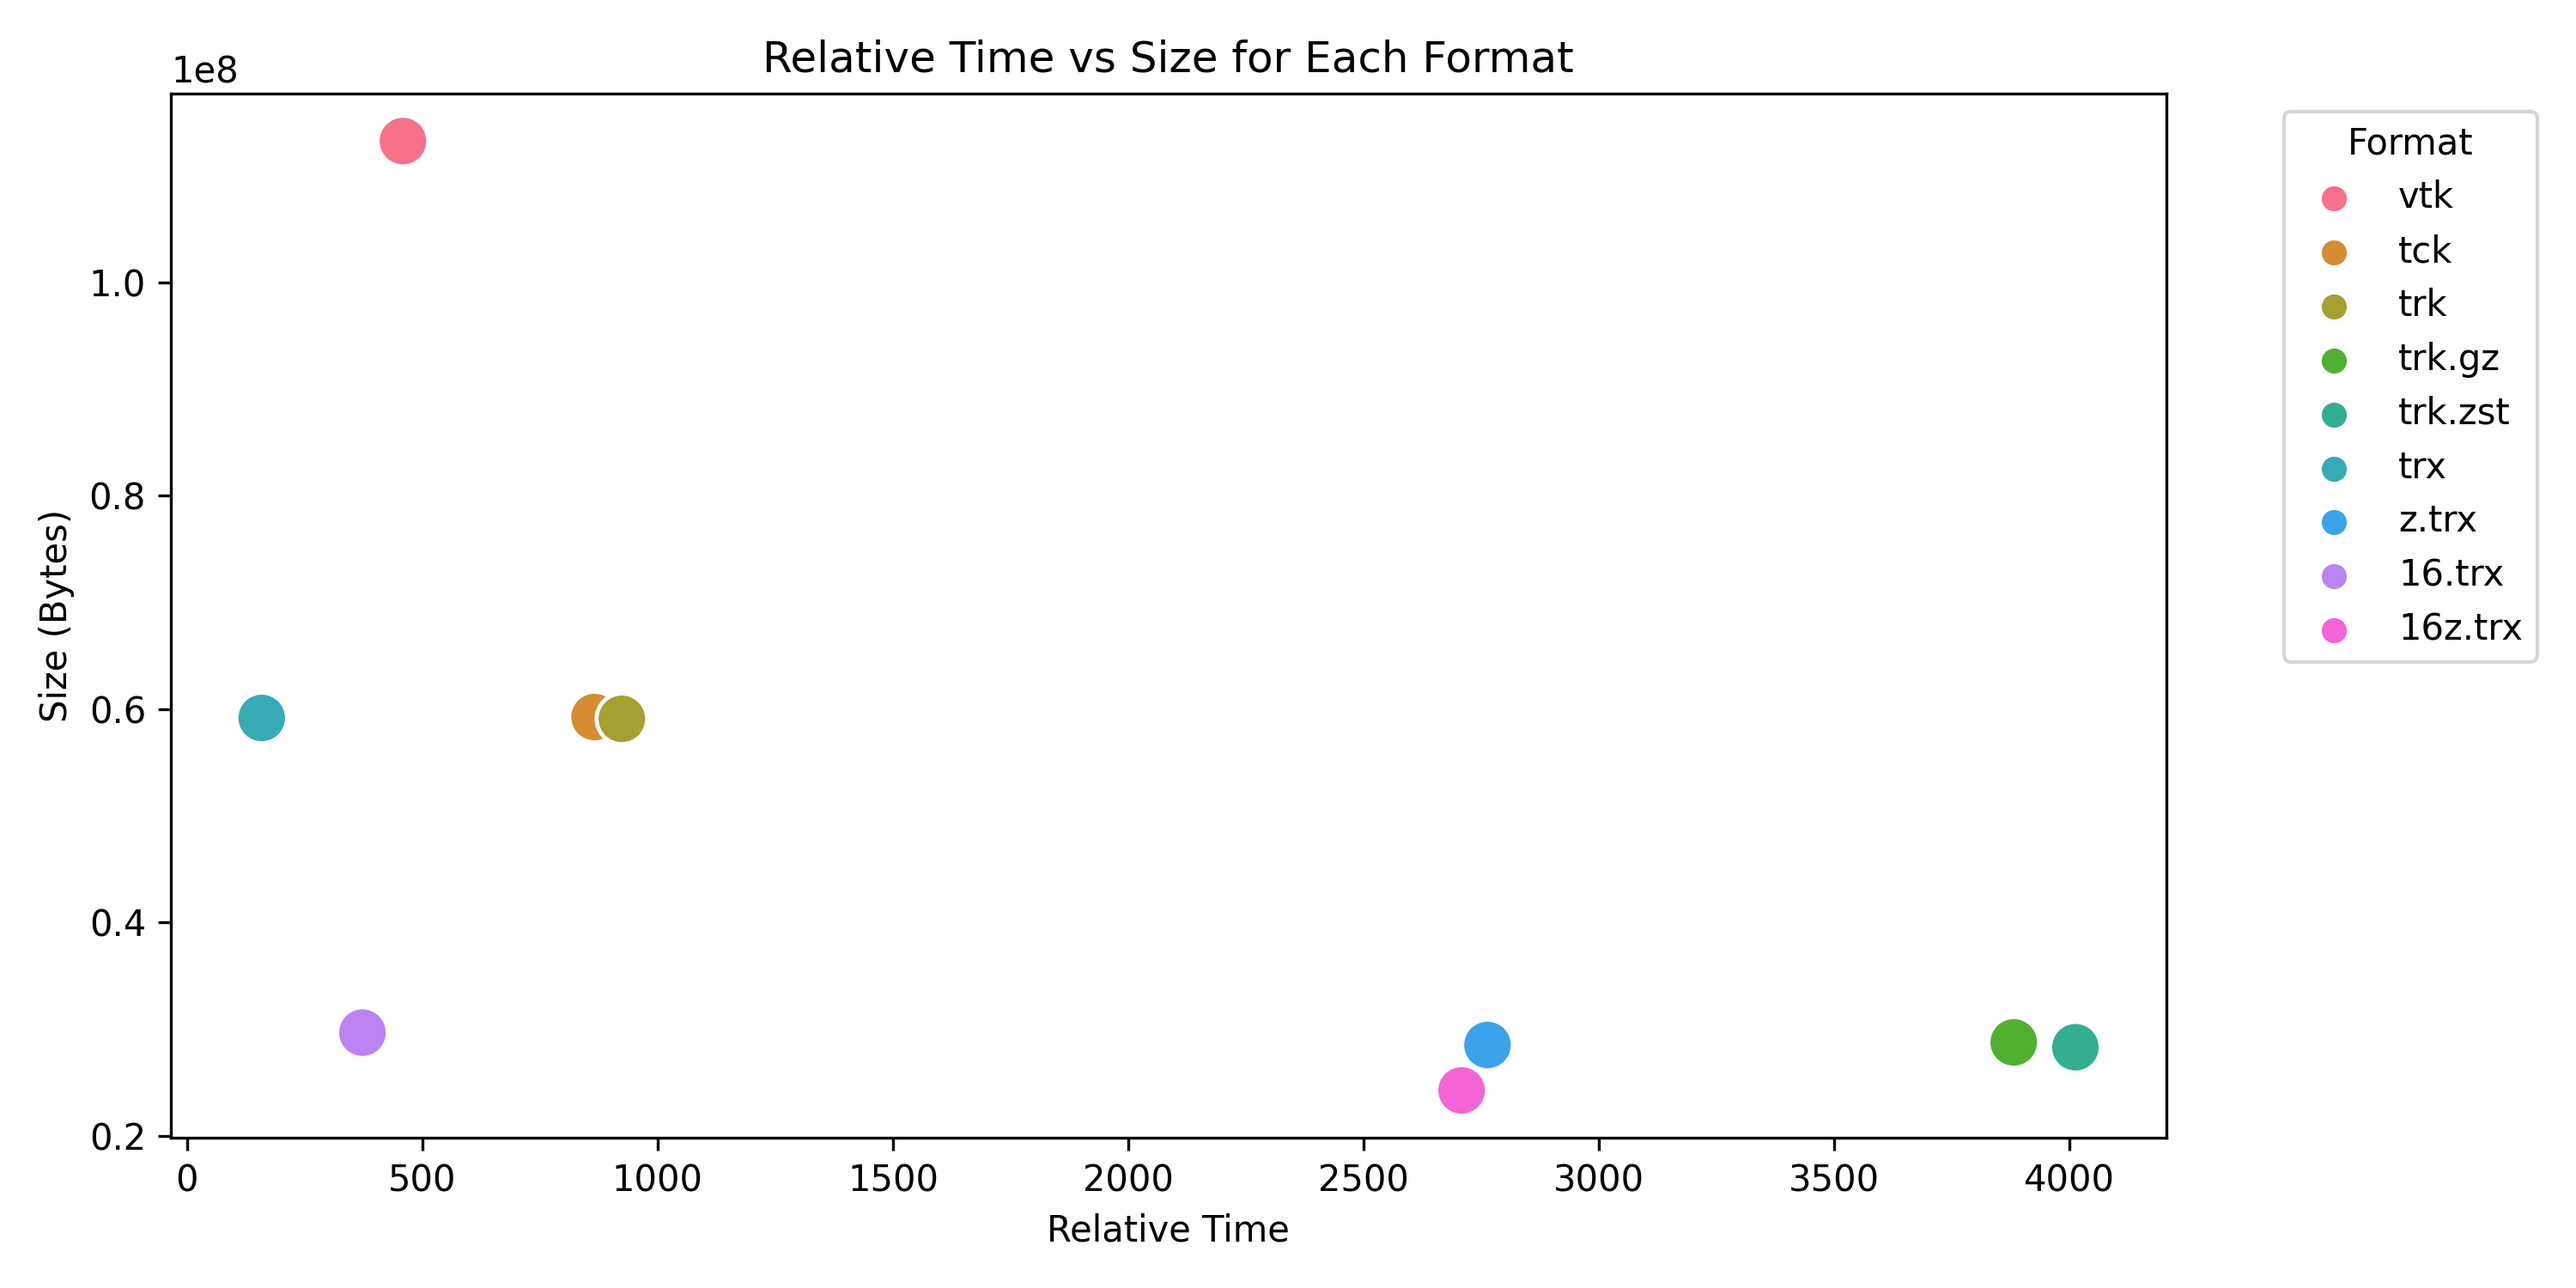
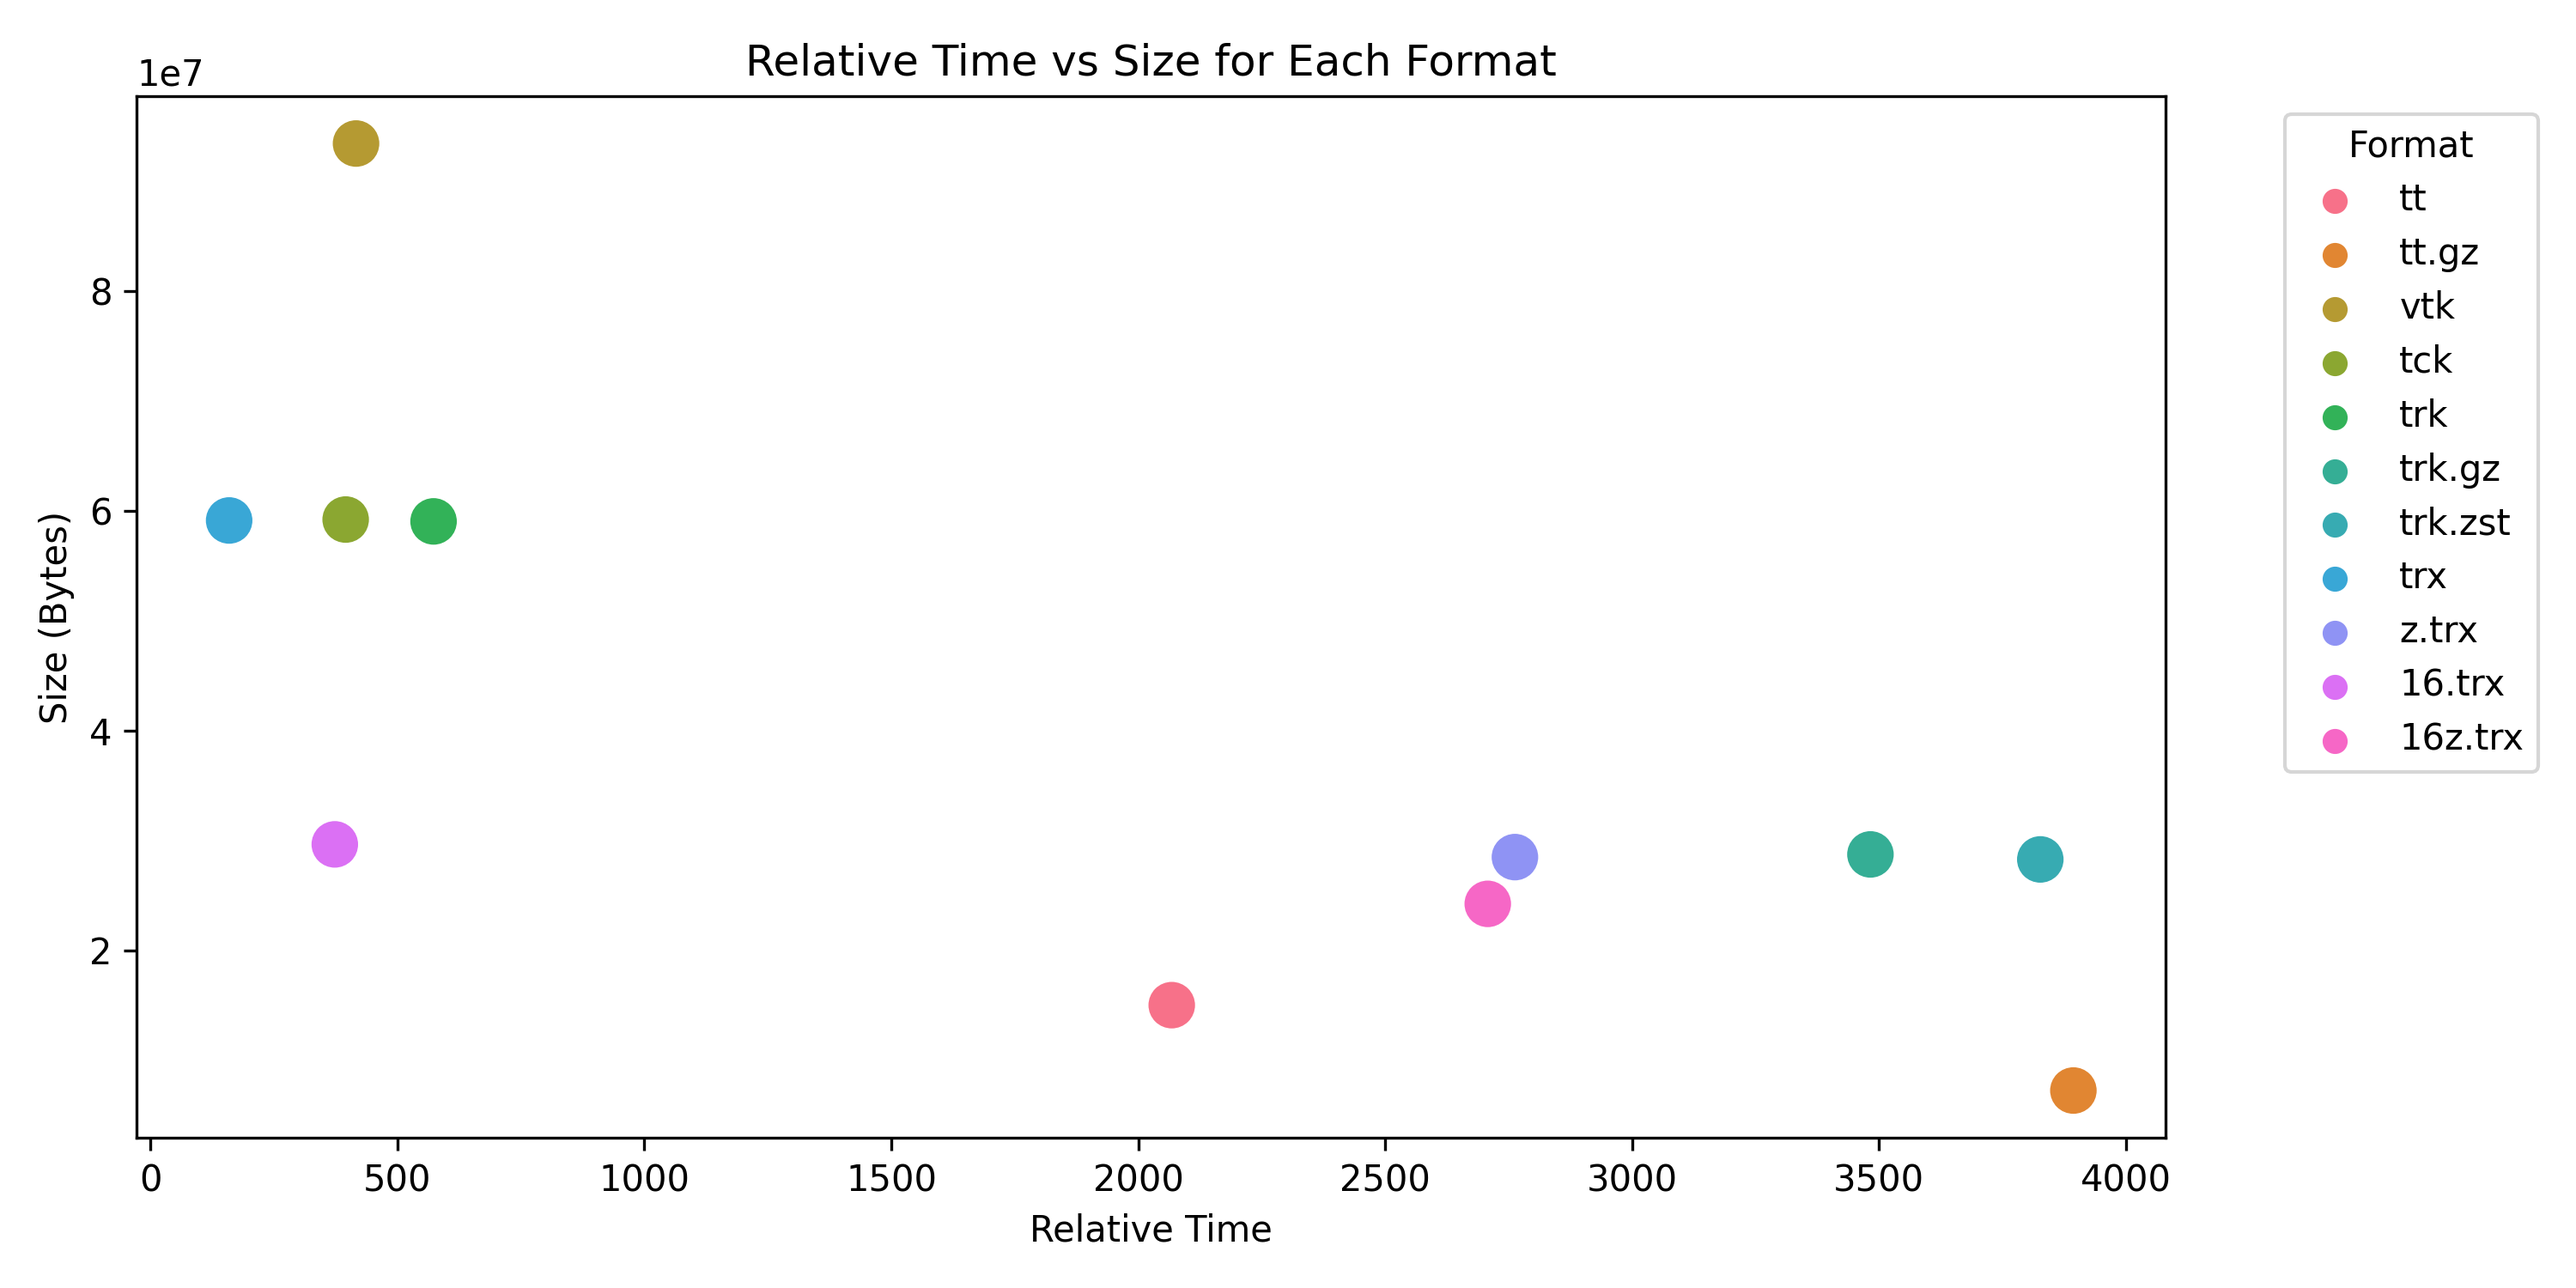
Add tt support, accelerate TRK and TCK reading

diff --git a/graphM2.py b/graphM2.py
@@ -4,9 +4,9 @@ import seaborn as sns
 
 # Create a dataframe
 data = {
-    'format': ['vtk', 'tck', 'trk', 'trk.gz', 'trk.zst', 'trx', 'z.trx', '16.trx', '16z.trx'],
-    'time': [459, 866, 924, 3881, 4012, 159, 2763, 373, 2708],
-    'bytes': [113218694, 59236654, 59067828, 28746432, 28291562, 59152204, 28502799, 29661208, 24245538]
+    'format': ['tt', 'tt.gz', 'vtk', 'tck', 'trk', 'trk.gz', 'trk.zst', 'trx', 'z.trx', '16.trx', '16z.trx'],
+    'time': [2068, 3894, 416, 395, 573, 3483, 3827, 159, 2763, 373, 2708],
+    'bytes': [15022315, 7249360, 93473172, 59236654, 59067828, 28746432, 28291562, 59152204, 28502799, 29661208, 24245538]
 }
 
 df = pd.DataFrame(data)

diff --git a/README.md b/README.md
@@ -70,7 +70,9 @@ The included JavaScript `bench` provides a method to evaluate performance. This 
 
 The graph below shows the time load the [left inferior fronto-occipital fasciculus (IFOF) ](https://brain.labsolver.org/hcp_trk_atlas.html) from the HCP1065 Population-Averaged Tractography Atlas (Yeh, 2022). This has with 21209 streamlines and 4915166 vertices. The different formats are generated with the [tff_convert_tractogram.py](https://github.com/tee-ar-ex/trx-python) script.The benchmark was run on a MacBook laptop with a M2 Pro CPU. The ideal format would be both fast to load (to the left on the horizontal axis) and have a small file size (toward the bottom in the right axis). However, compression typically trades load time for file size. Here all data is loaded from a local solid state drive, whereas smaller files would benefit if data was loaded using a slow internet connection. The following file formats are illustrated (except where noted, both positions and indices are stored with 32-bit precision):
 
- - vtk: streamlines saved by an [undocumented](https://discourse.vtk.org/t/upcoming-changes-to-vtkcellarray/2066) extension to the [VTK legacy file format](https://vtk.org/wp-content/uploads/2015/04/file-formats.pdf).
+ - tt: The [DSI Studio format](https://dsi-studio.labsolver.org/doc/cli_data.html) is very compact. The vertex position is stored as 1/32nd of a voxel, so it may be slightly lossy for some data.
+ - tt.gz: Gzip compressed DSI-Studio.
+ - vtk: streamlines saved by an [undocumented](https://discourse.vtk.org/t/upcoming-changes-to-vtkcellarray/2066) extension to the [VTK legacy file format](https://vtk.org/wp-content/uploads/2015/04/file-formats.pdf) (converted with `--offsets_dtype uint32`).
  - tck: [MRtrix format](https://mrtrix.readthedocs.io/en/latest/getting_started/image_data.html#tracks-file-format-tck).
  - trk: The popular [TrackVis format](http://trackvis.org/docs/?subsect=fileformat).
  - trk.gz: Gzip compressed TrackVis.
